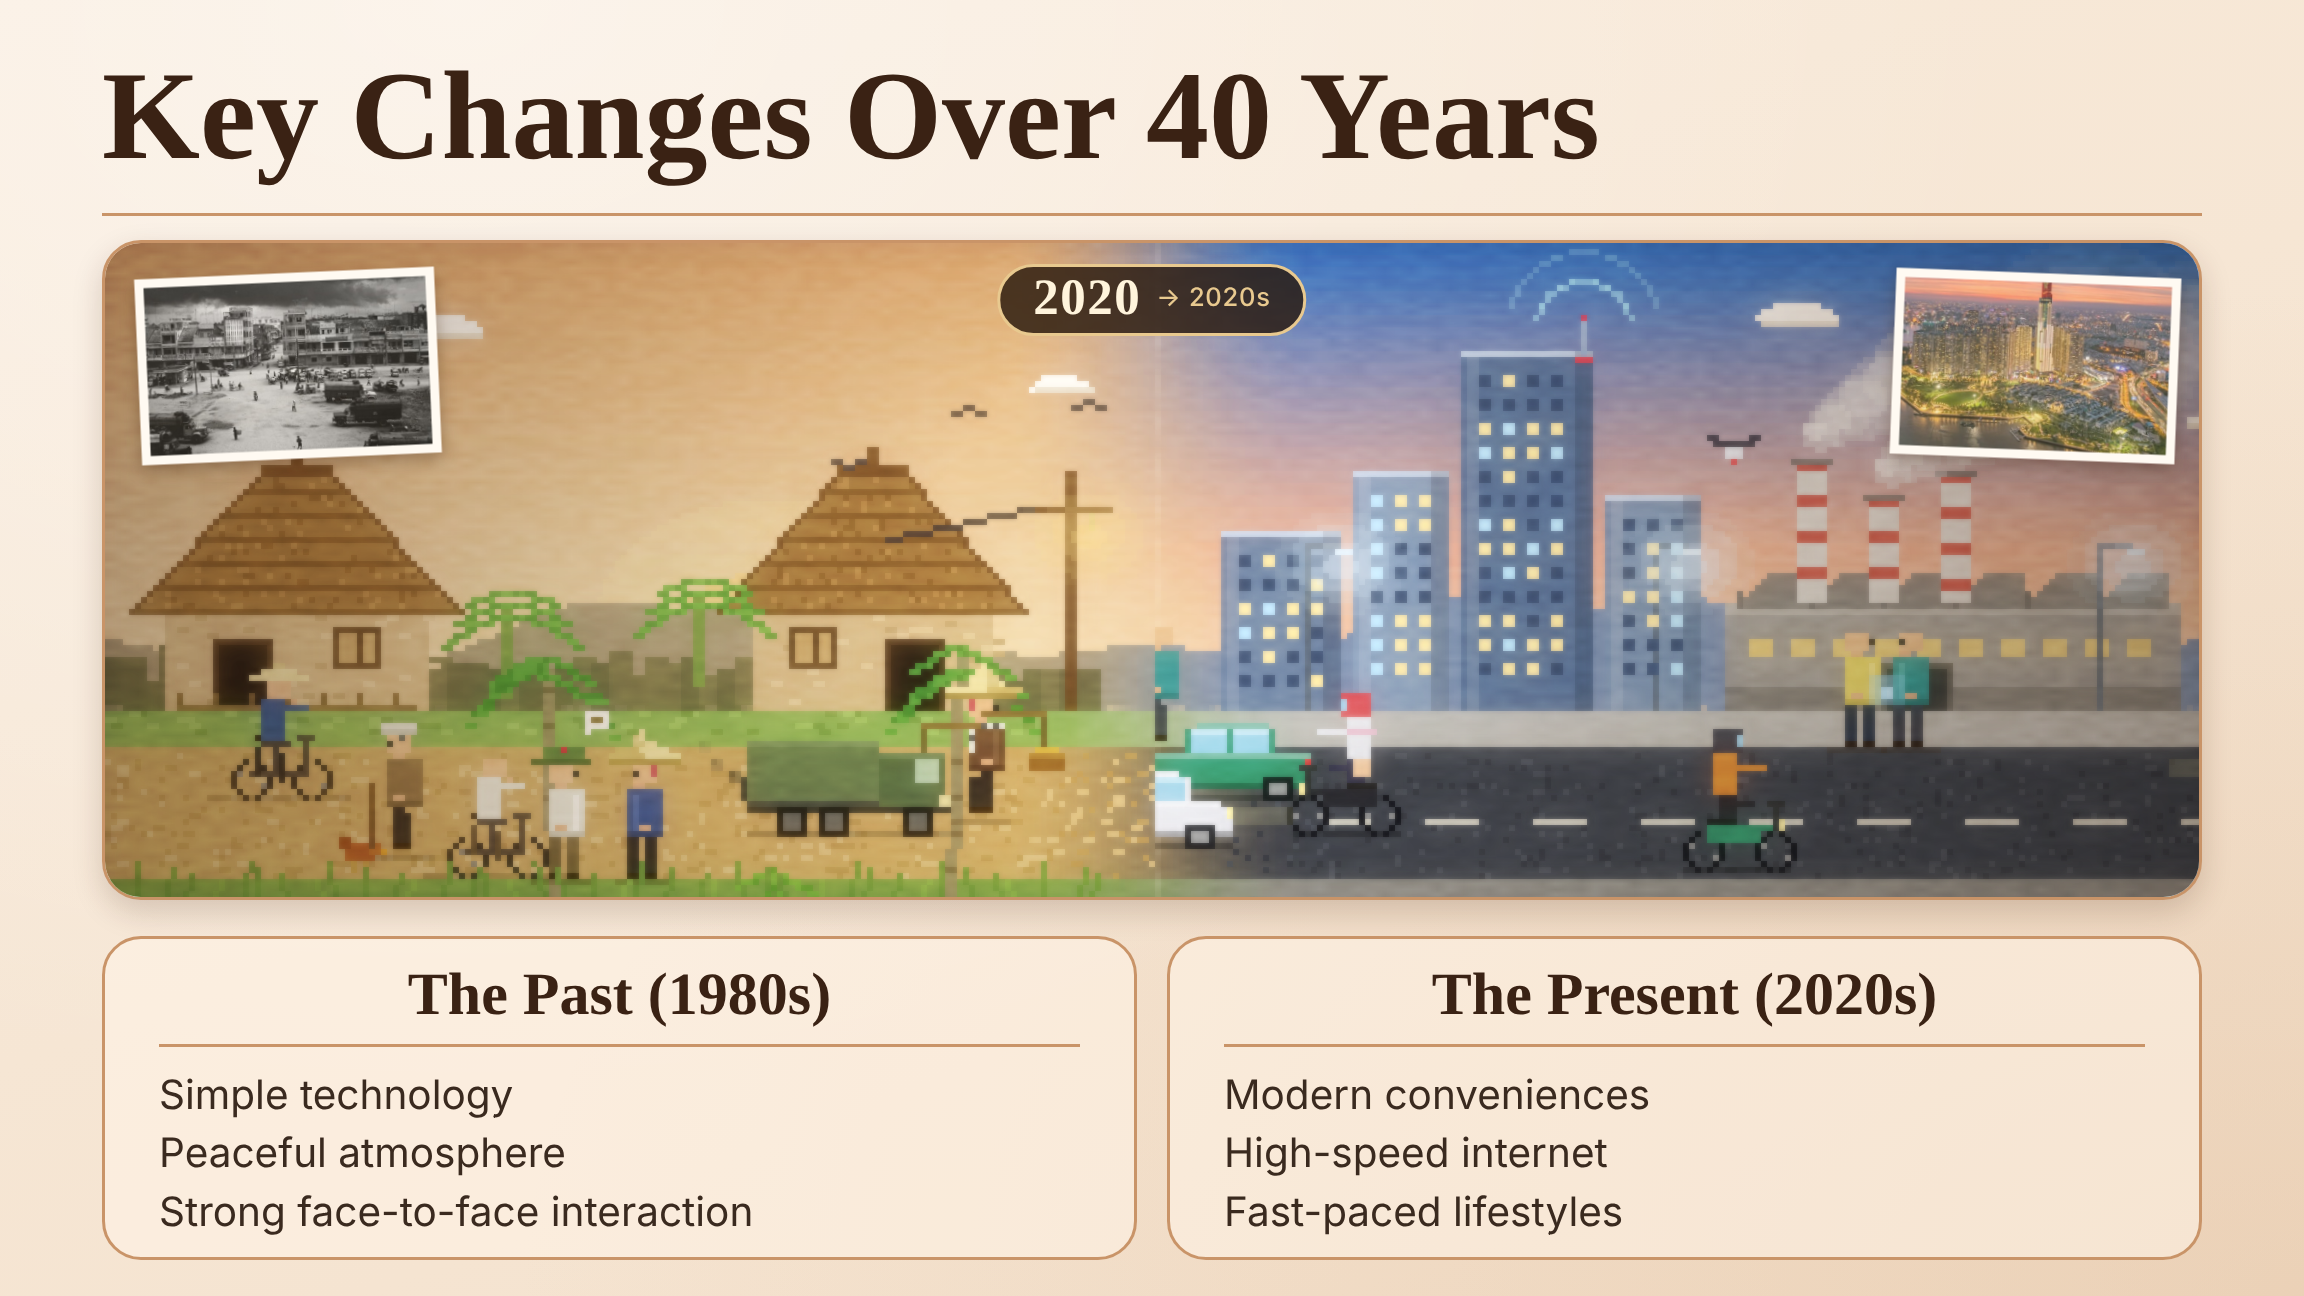
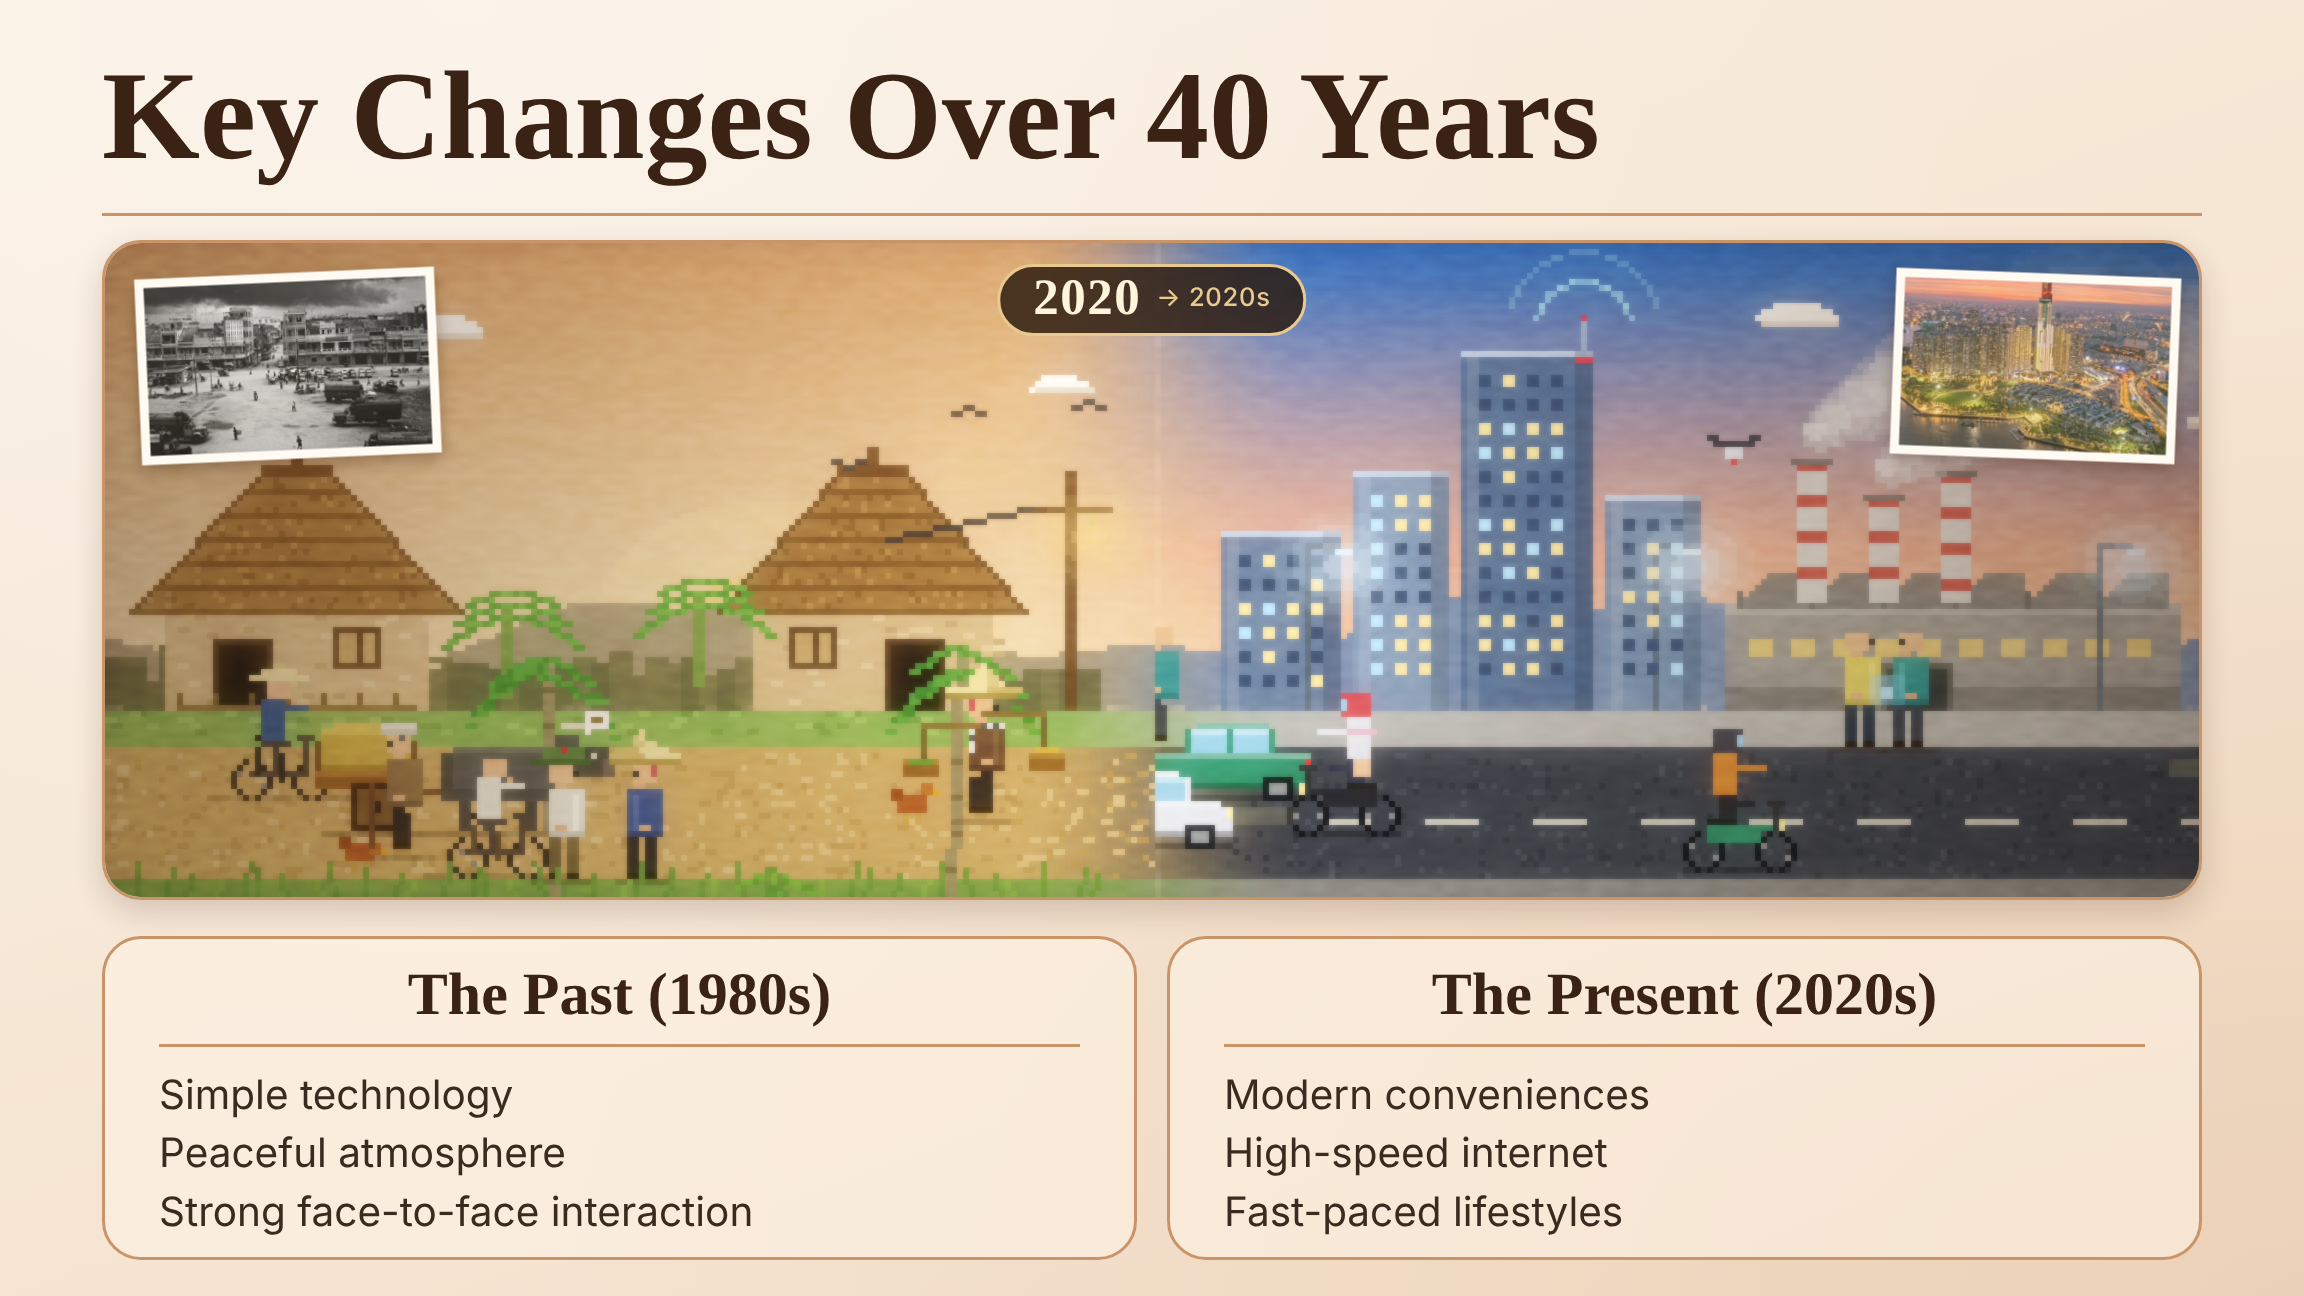
Slide 8: replace 1980s truck with buffalo cart
Claude-Session: https://claude.ai/code/session_015dETkK63Reb6JNnJAvDzmD

Changed region(s): [[0.125, 0.5556, 0.2812, 0.6481], [0.3125, 0.5556, 0.4375, 0.6481]]

diff --git a/slide8-anim.html b/slide8-anim.html
@@ -267,14 +267,22 @@
       g.fillStyle = 'rgba(255,246,176,.16)'; const X = Math.round(o.x); g.fillRect(o.d > 0 ? X + 14 : X - 24, Math.round(o.y) - 6, 10, 3);
     });
   }
-  function truck(o, t) {                      // xe tải cũ thùng bạt, xả khói đen
+  function truck(o, t) {                      // xe trâu kéo: trâu + xe thồ chất rơm (thay xe tải vì thập niên 1980 chưa có)
+    const sw = Math.round(Math.sin(t * 5 + o.x * 0.1) * 2);
     veh(o, (r) => {
-      r(-17, 0, 34, 1, 'rgba(50,35,15,.3)');
-      r(-17, -15, 22, 11, '#6d7a52'); r(-17, -15, 22, 1, '#7f8d62'); r(-17, -5, 22, 2, '#4a4a40');
-      r(5, -13, 11, 9, '#5b6a45'); r(5, -13, 11, 1, '#6d7c55'); r(11, -12, 4, 4, '#b8c9a8'); r(15, -6, 2, 3, '#e8d9a0');
-      r(-17, -4, 34, 1, '#3a352c');
-      for (const wx of [-12, -5, 9]) { r(wx, -4, 5, 5, '#1e1b18'); r(wx + 1, -3, 3, 3, '#6a6760'); }
-      r(-18, -9, 1, 4, '#3b3b34');
+      r(-18, 0, 40, 1, 'rgba(50,35,15,.3)');
+      // xe thồ
+      r(-19, -9, 17, 2, '#8a5a2a'); r(-19, -10, 17, 1, '#a8743a'); r(-19, -15, 1, 5, '#6b4a2a'); r(-3, -15, 1, 5, '#6b4a2a');
+      r(-18, -16, 15, 6, '#c9a64e'); r(-18, -17, 15, 1, '#dcbc62'); r(-16, -18, 9, 1, '#dcbc62'); r(-18, -11, 15, 1, '#a88838');
+      r(-13, -8, 8, 8, '#3a2a18'); r(-12, -7, 6, 6, '#7a5a30'); r(-10, -5, 2, 2, '#3a2a18');
+      // đòn kéo
+      r(-3, -7, 11, 1, '#6b4a2a');
+      // trâu
+      r(5 - sw, -6, 2, 6, '#454039'); r(9 + sw, -6, 2, 6, '#4f4a43'); r(16 - sw, -6, 2, 6, '#454039'); r(20 + sw, -6, 2, 6, '#4f4a43');
+      r(4, -14, 19, 9, '#5d5750'); r(4, -14, 19, 1, '#6f6860'); r(4, -7, 19, 2, '#4d4842');
+      r(21, -16, 4, 7, '#57514a'); r(24, -14, 6, 5, '#4d4842'); r(29, -12, 2, 3, '#6a5a56'); r(27, -13, 1, 1, '#e8dcc4');
+      r(22, -18, 5, 1, '#e8dcc4'); r(26, -20, 1, 3, '#e8dcc4');
+      r(2, -13, 2, 8, '#4d4842');
     });
   }
   // ================= NỀN: một con đường, hai thời đại =================
@@ -349,7 +357,7 @@
     { k: 'stand', x: 76, y: 106, d: 1, style: STY.white, sc: 0.8 }, { k: 'stand', x: 90, y: 106, d: -1, style: STY.indigo, sc: 0.8 },
     { k: 'bic', x: 10, y: 92, d: 1, v: 22, pants: '#2c2724', shirt: '#3d5382', hat: true },
     { k: 'bic', x: 100, y: 105, d: 1, v: 17, pants: '#5a4a35', shirt: '#ebe6d6', hat: false },
-    { k: 'truck', x: -30, y: 98, d: 1, v: 11 }
+    { k: 'truck', x: -30, y: 98, d: 1, v: 6 }
   ];
   const R_ACT = [   // phía 2020s
     { k: 'car', x: 230, y: 100, d: 1, v: 34, col: '#d94a4a', colL: '#ee7a7a', colD: '#9b2f2f' },
@@ -405,7 +413,6 @@
     else if (o.k === 'car') car(o, t);
     else if (o.k === 'truck') {
       truck(o, t);
-      for (let i = 0; i < 3; i++) { const q = (t * 1.2 + i / 3) % 1, X = o.x - o.d * (19 + q * 8), Y = o.y - 9 - q * 7; g.globalAlpha = 0.5 * (1 - q); px(g, X, Y, '#2d2a28'); R(g, X, Y, 2, 2, '#35322f'); g.globalAlpha = 1; }
     }
   }
   function sideDraw(x0, x1, list, t) {
